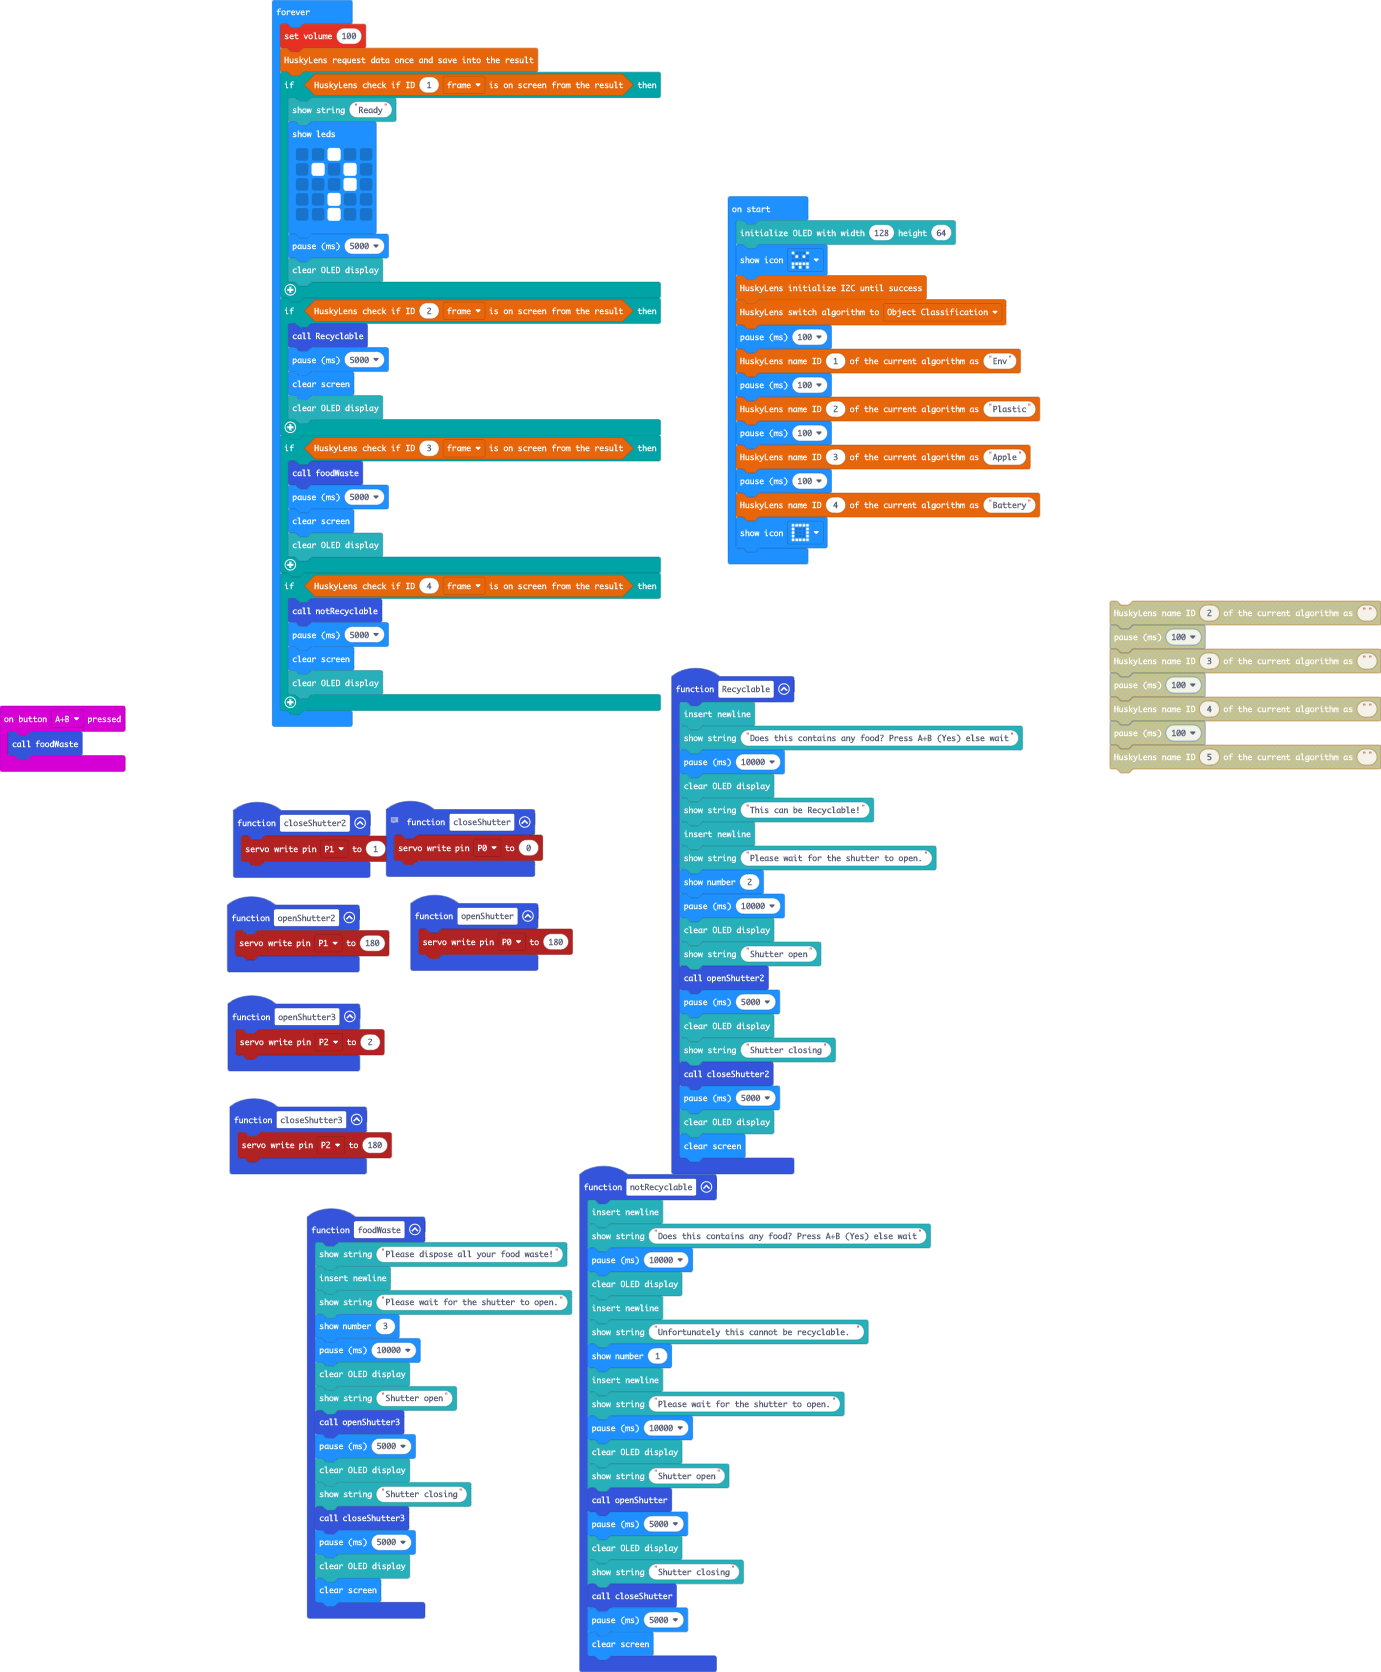
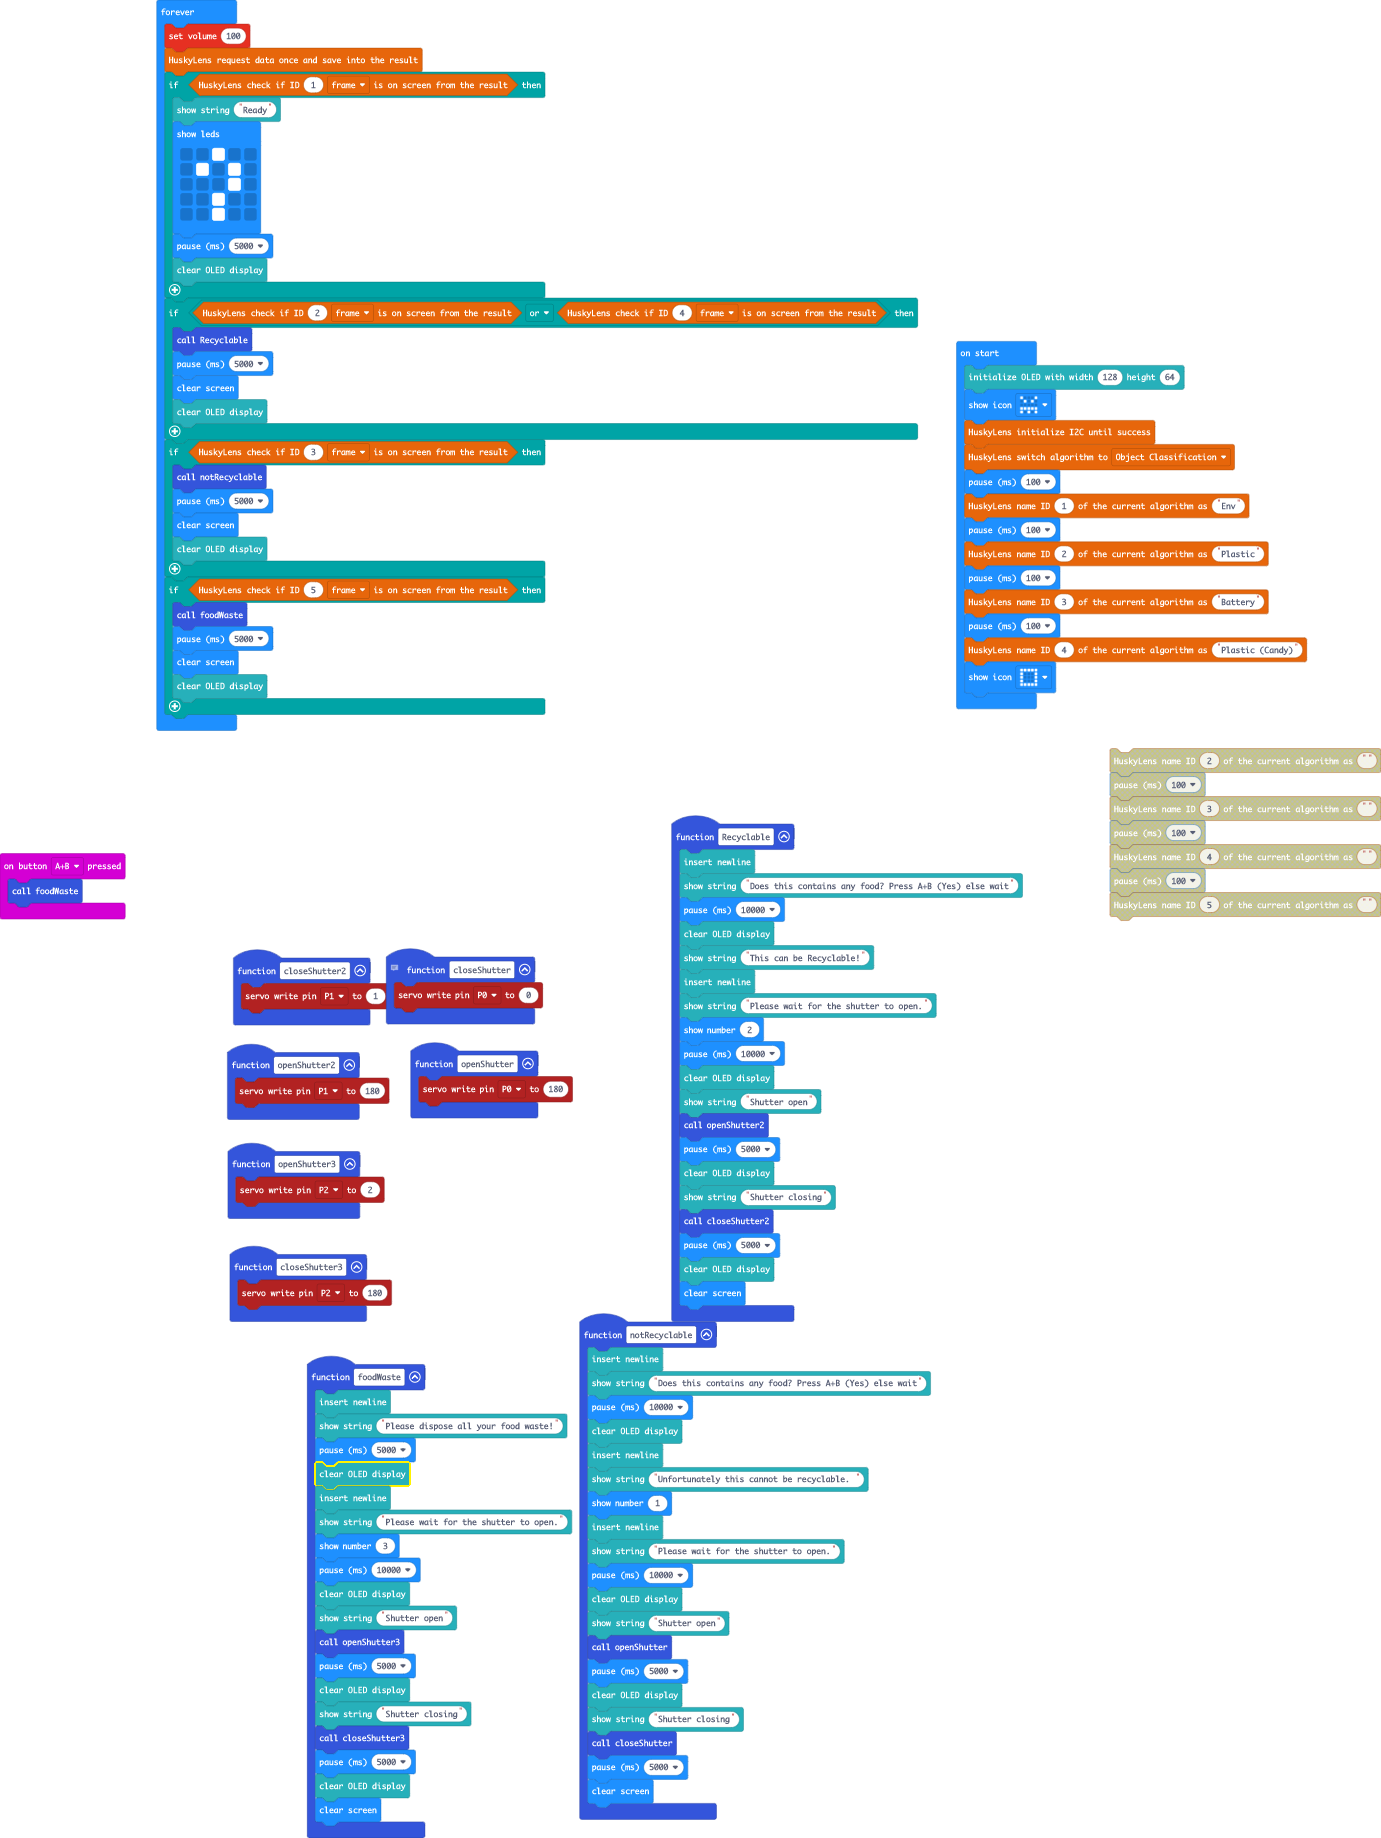
Update main.blocks, main.ts

Changed region(s): [[0.0934, 0.0, 1.0, 1.0], [0.0, 0.4043, 0.0934, 0.4976]]

diff --git a/main.ts b/main.ts
@@ -18,7 +18,10 @@ function openShutter3 () {
     pins.servoWritePin(AnalogPin.P2, 2)
 }
 function foodWaste () {
+    OLED.newLine()
     OLED.writeStringNewLine("Please dispose all your food waste!")
+    basic.pause(5000)
+    OLED.clear()
     OLED.newLine()
     OLED.writeStringNewLine("Please wait for the shutter to open.")
     basic.showNumber(3)
@@ -100,9 +103,9 @@ huskylens.writeName(1, "Env")
 basic.pause(100)
 huskylens.writeName(2, "Plastic")
 basic.pause(100)
-huskylens.writeName(3, "Apple")
+huskylens.writeName(3, "Battery")
 basic.pause(100)
-huskylens.writeName(4, "Battery")
+huskylens.writeName(4, "Plastic (Candy)")
 basic.showIcon(IconNames.Square)
 basic.forever(function () {
     music.setVolume(100)
@@ -119,20 +122,20 @@ basic.forever(function () {
         basic.pause(5000)
         OLED.clear()
     }
-    if (huskylens.isAppear(2, HUSKYLENSResultType_t.HUSKYLENSResultBlock)) {
+    if (huskylens.isAppear(2, HUSKYLENSResultType_t.HUSKYLENSResultBlock) || huskylens.isAppear(4, HUSKYLENSResultType_t.HUSKYLENSResultBlock)) {
         Recyclable()
         basic.pause(5000)
         basic.clearScreen()
         OLED.clear()
     }
     if (huskylens.isAppear(3, HUSKYLENSResultType_t.HUSKYLENSResultBlock)) {
-        foodWaste()
+        notRecyclable()
         basic.pause(5000)
         basic.clearScreen()
         OLED.clear()
     }
-    if (huskylens.isAppear(4, HUSKYLENSResultType_t.HUSKYLENSResultBlock)) {
-        notRecyclable()
+    if (huskylens.isAppear(5, HUSKYLENSResultType_t.HUSKYLENSResultBlock)) {
+        foodWaste()
         basic.pause(5000)
         basic.clearScreen()
         OLED.clear()
